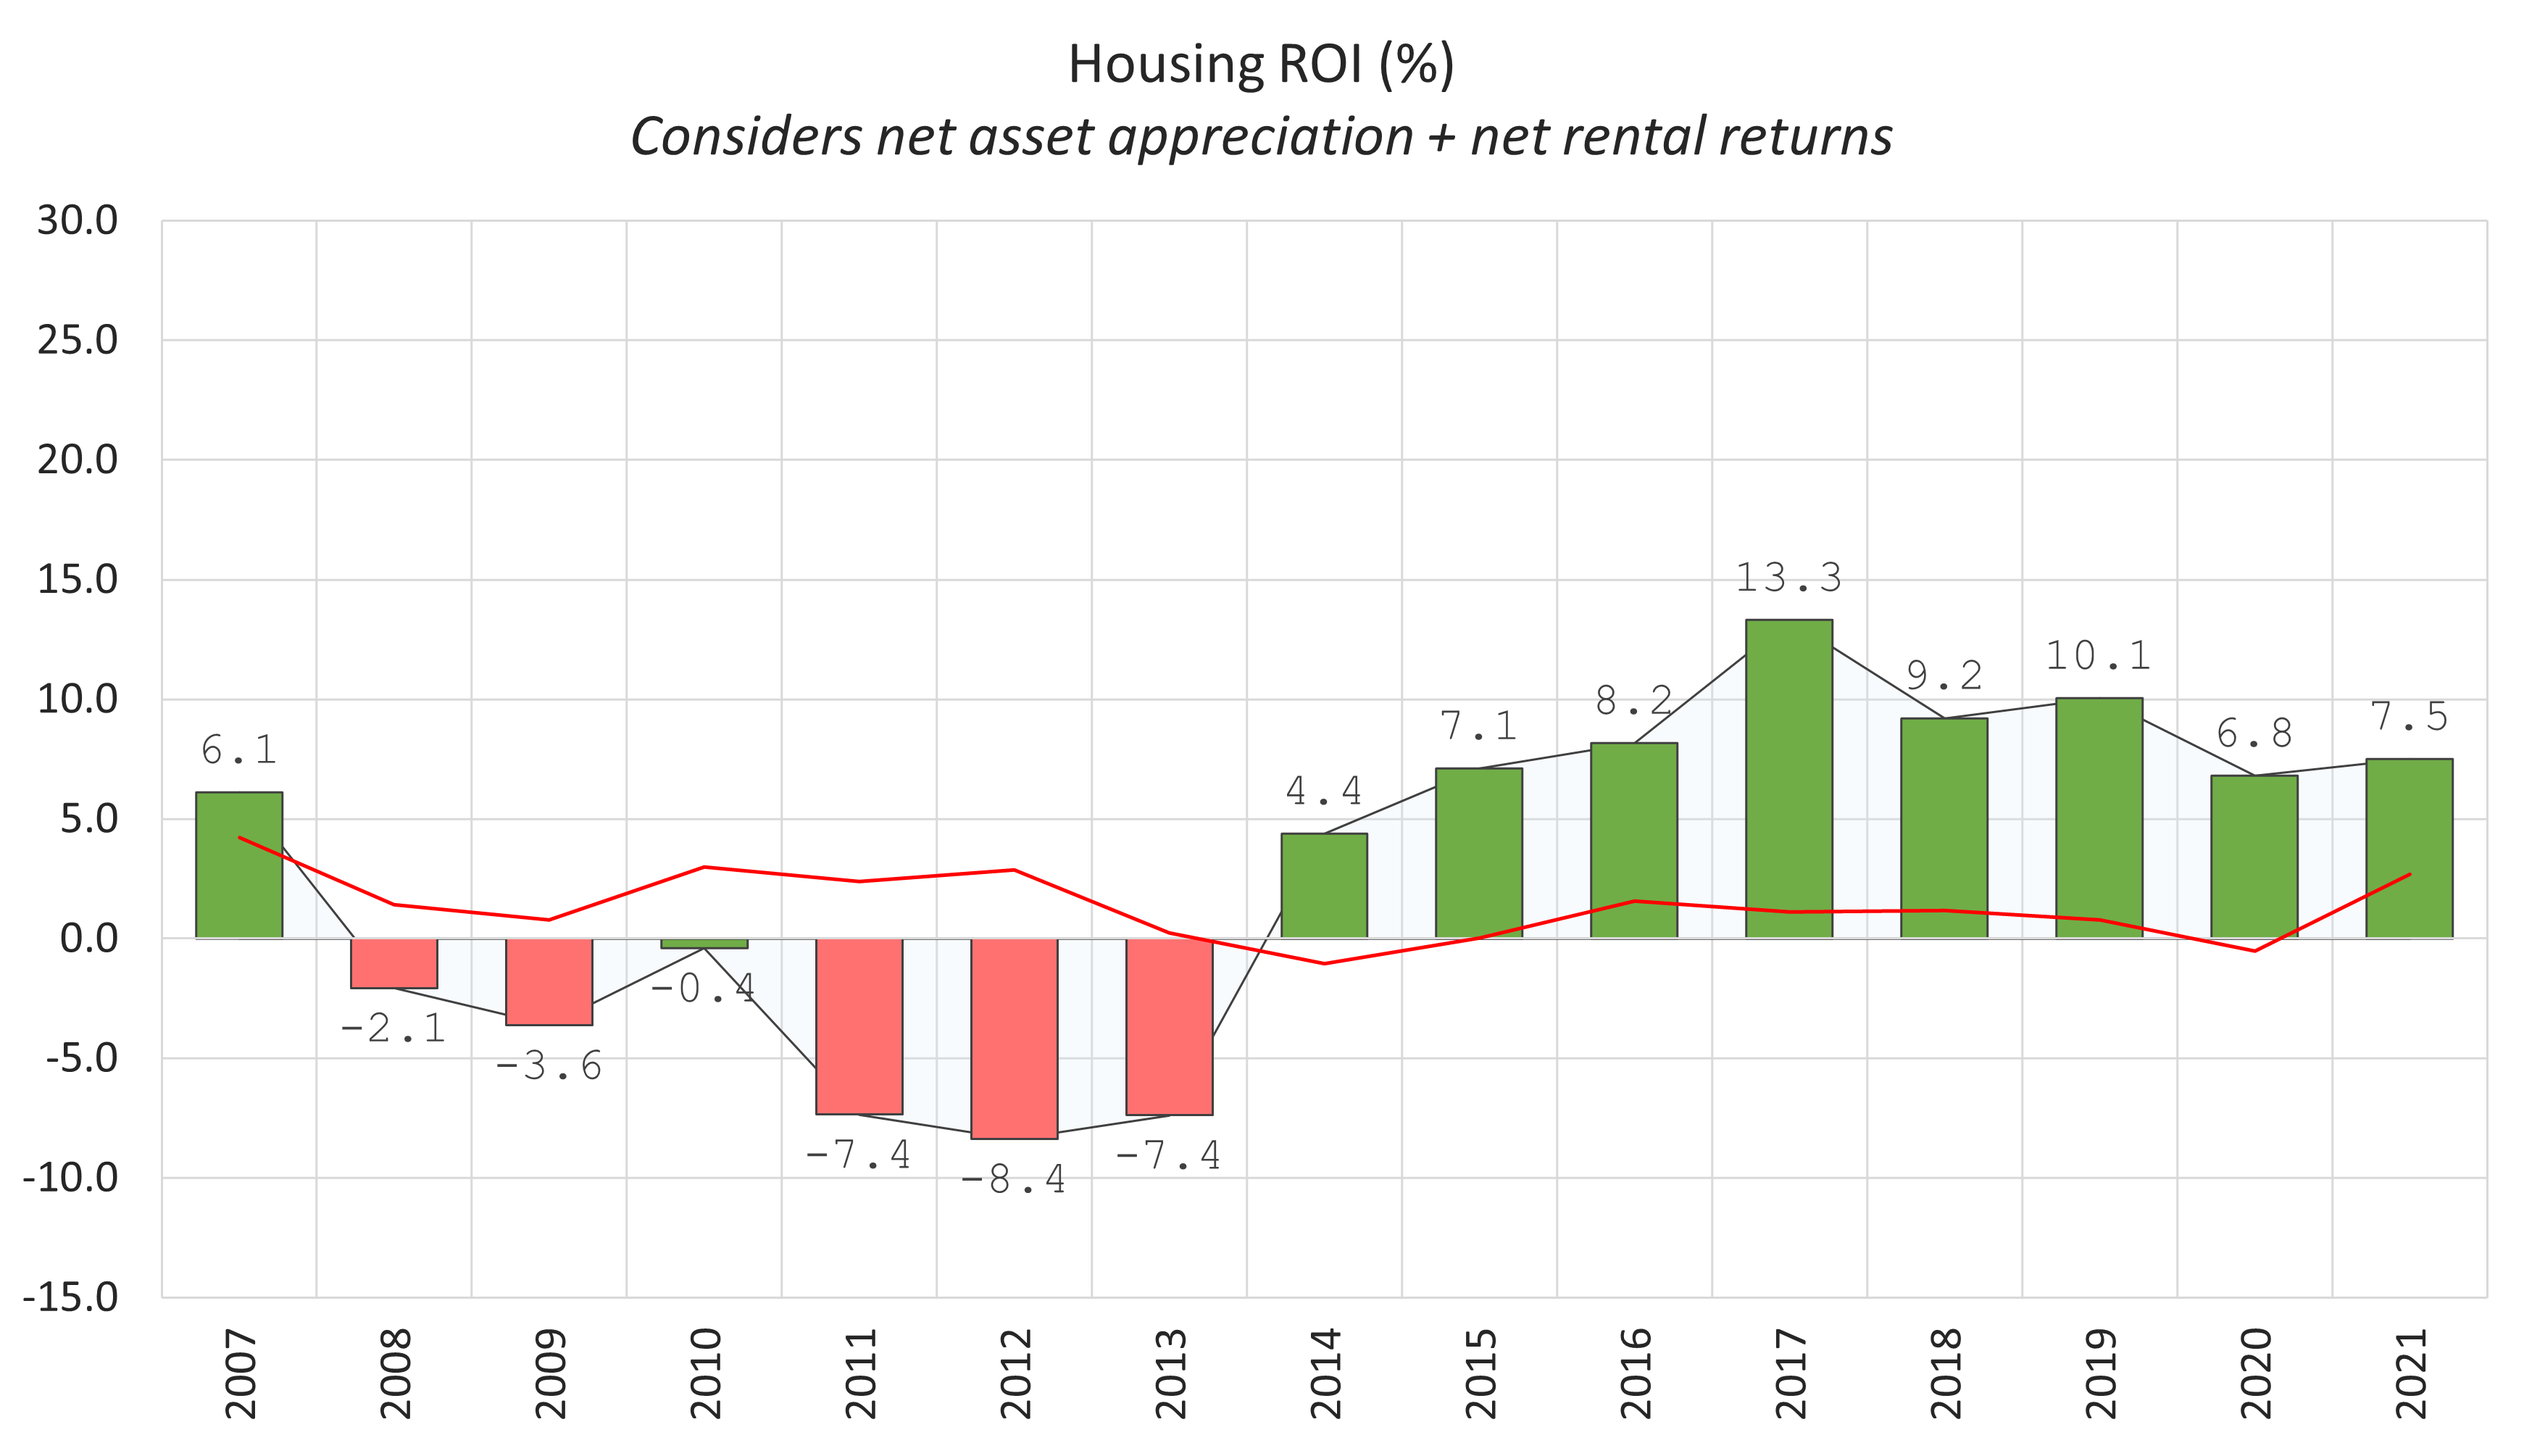
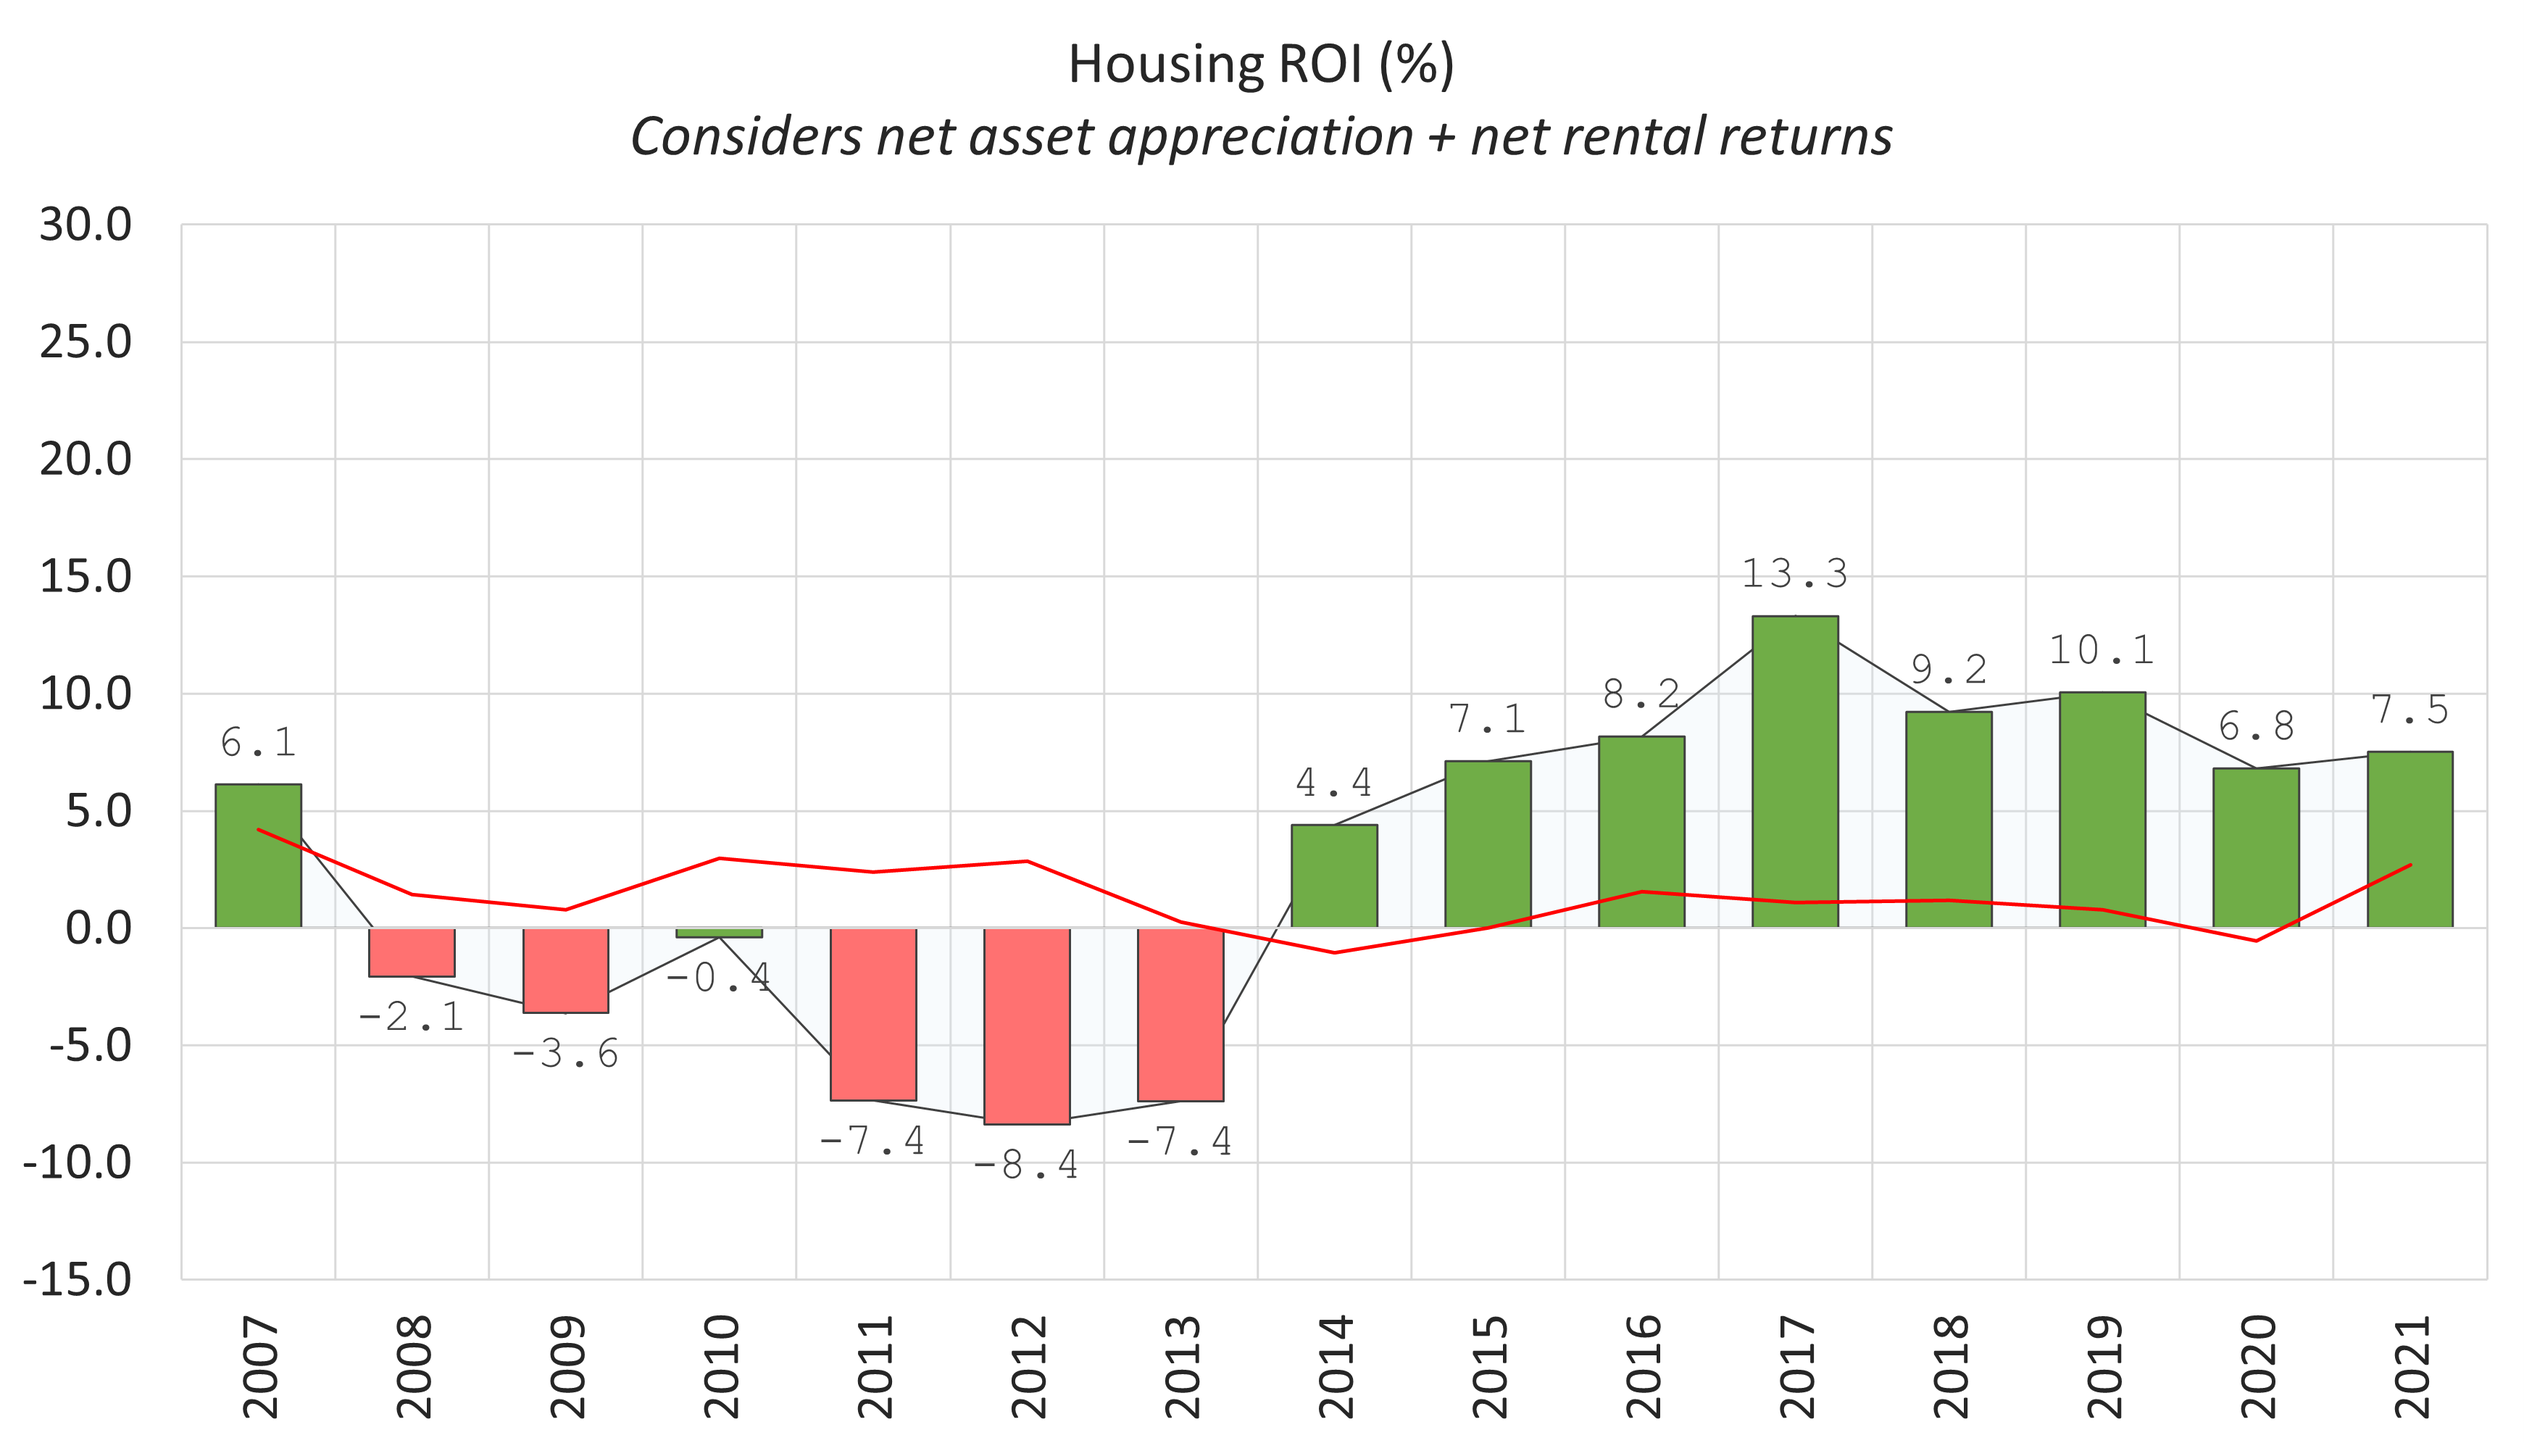
up3

diff --git a/pages/posts/rent.md b/pages/posts/rent.md
@@ -20,7 +20,7 @@ import Image from 'next/image'
 
 ![Reload chart](/images/housingroi.png)
 
-- **Housing ROI (%)**: final return on investment, considering both net rental return and net asset appreciation .
+- **Housing ROI (%, red line = inflation)**: final return on investment, considering both net rental return and net asset appreciation.
 
 # Interpretation and observations
 
